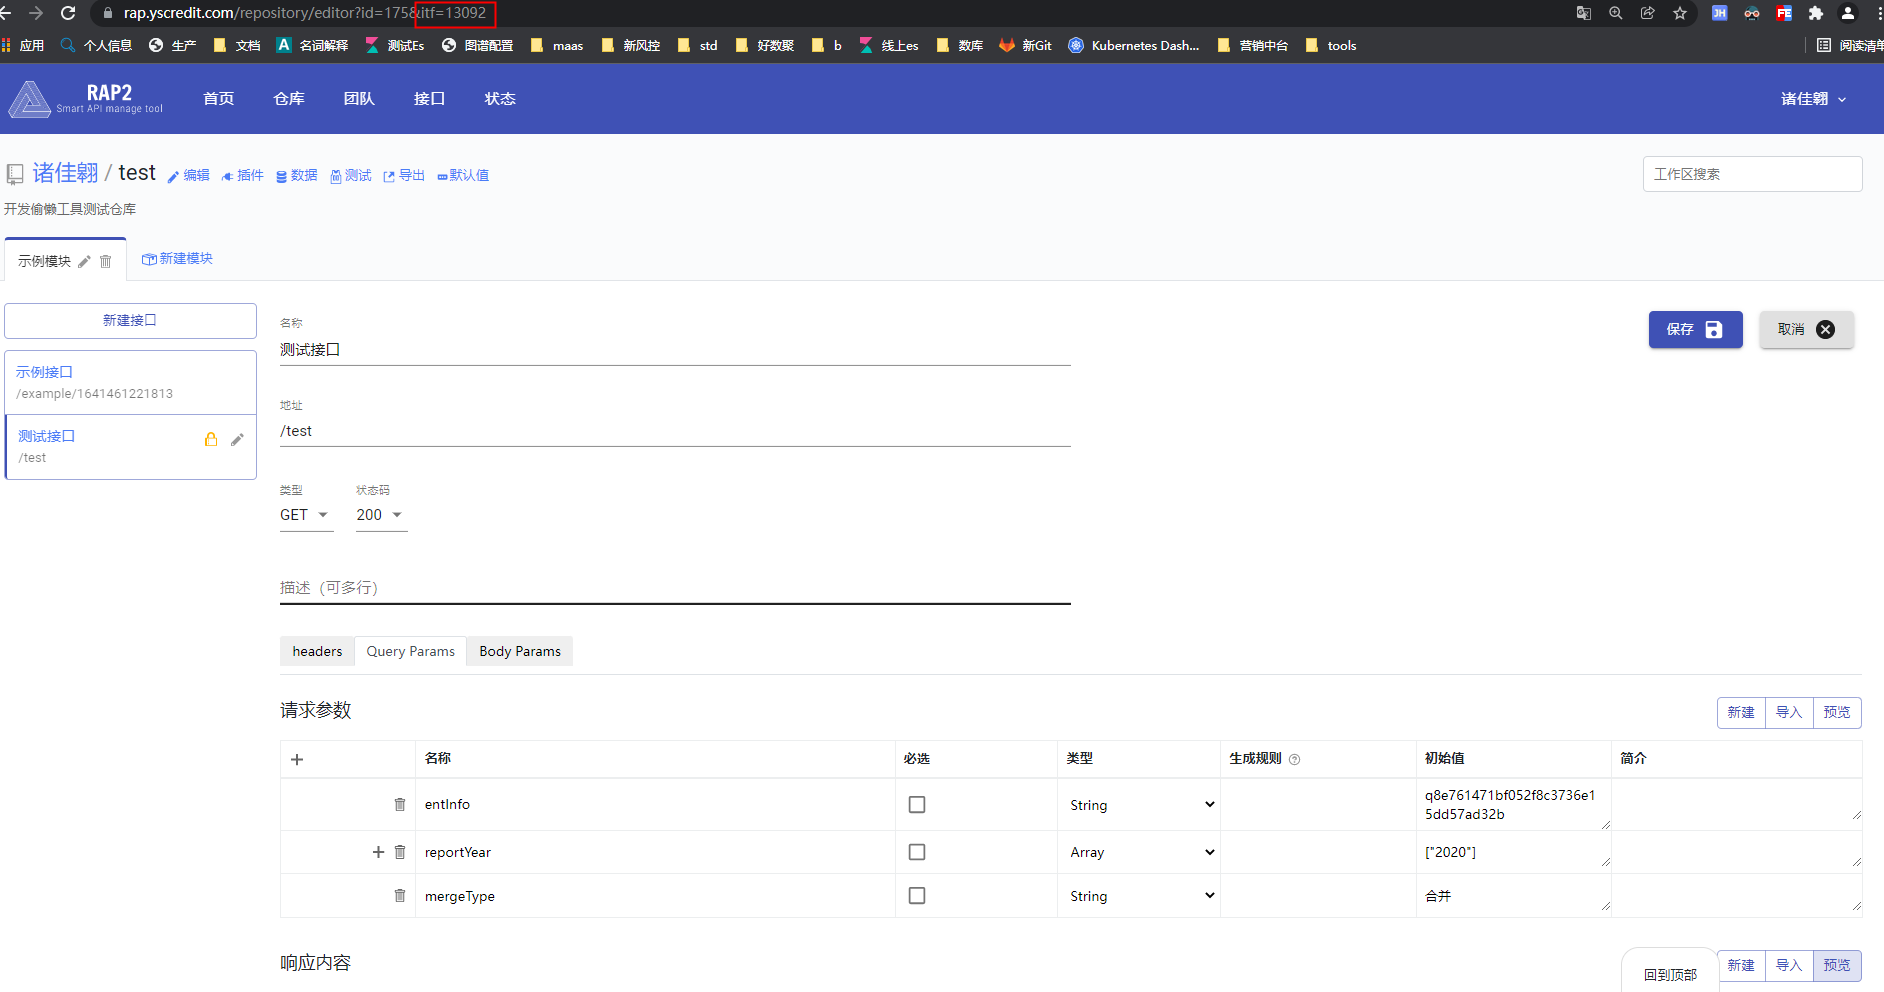
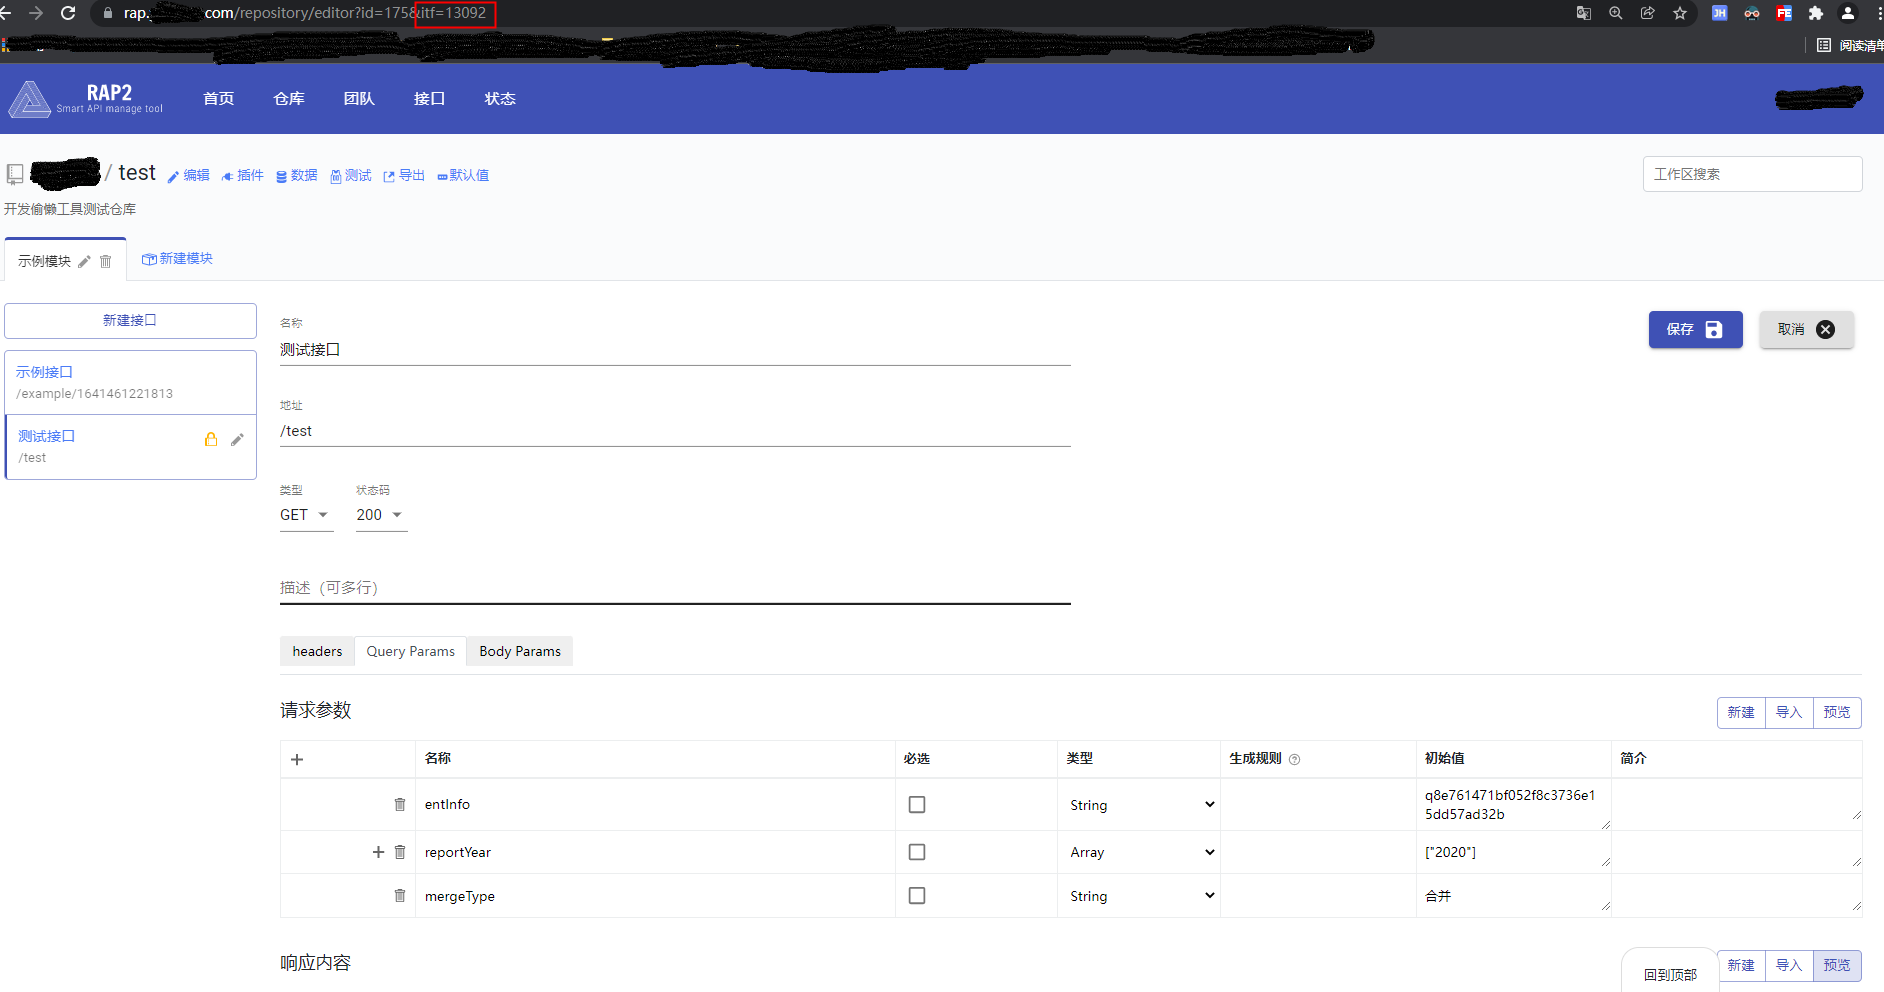
公司地址打码处理

Changed region(s): [[0.0, 0.0, 0.7389, 0.0938], [0.9236, 0.0625, 0.9851, 0.125], [0.0, 0.1562, 0.0616, 0.1875]]

diff --git a/rap2_helper/rap2_helper.py b/rap2_helper/rap2_helper.py
@@ -112,7 +112,7 @@ if __name__ == '__main__':
     # 尝试读取本地缓存的Rap2Url
     rap_address = read_cache('rap_address')
     if not rap_address:
-        rap_address = input('请输入Rap2地址（示例 \'rap.yscredit.com\'）：')
+        rap_address = input('请输入Rap2地址（示例 \'rap.xxx.com\'）：')
         if not rap_address:
             print('[ERROR] Rap2地址不能为空')
             sys.exit()
